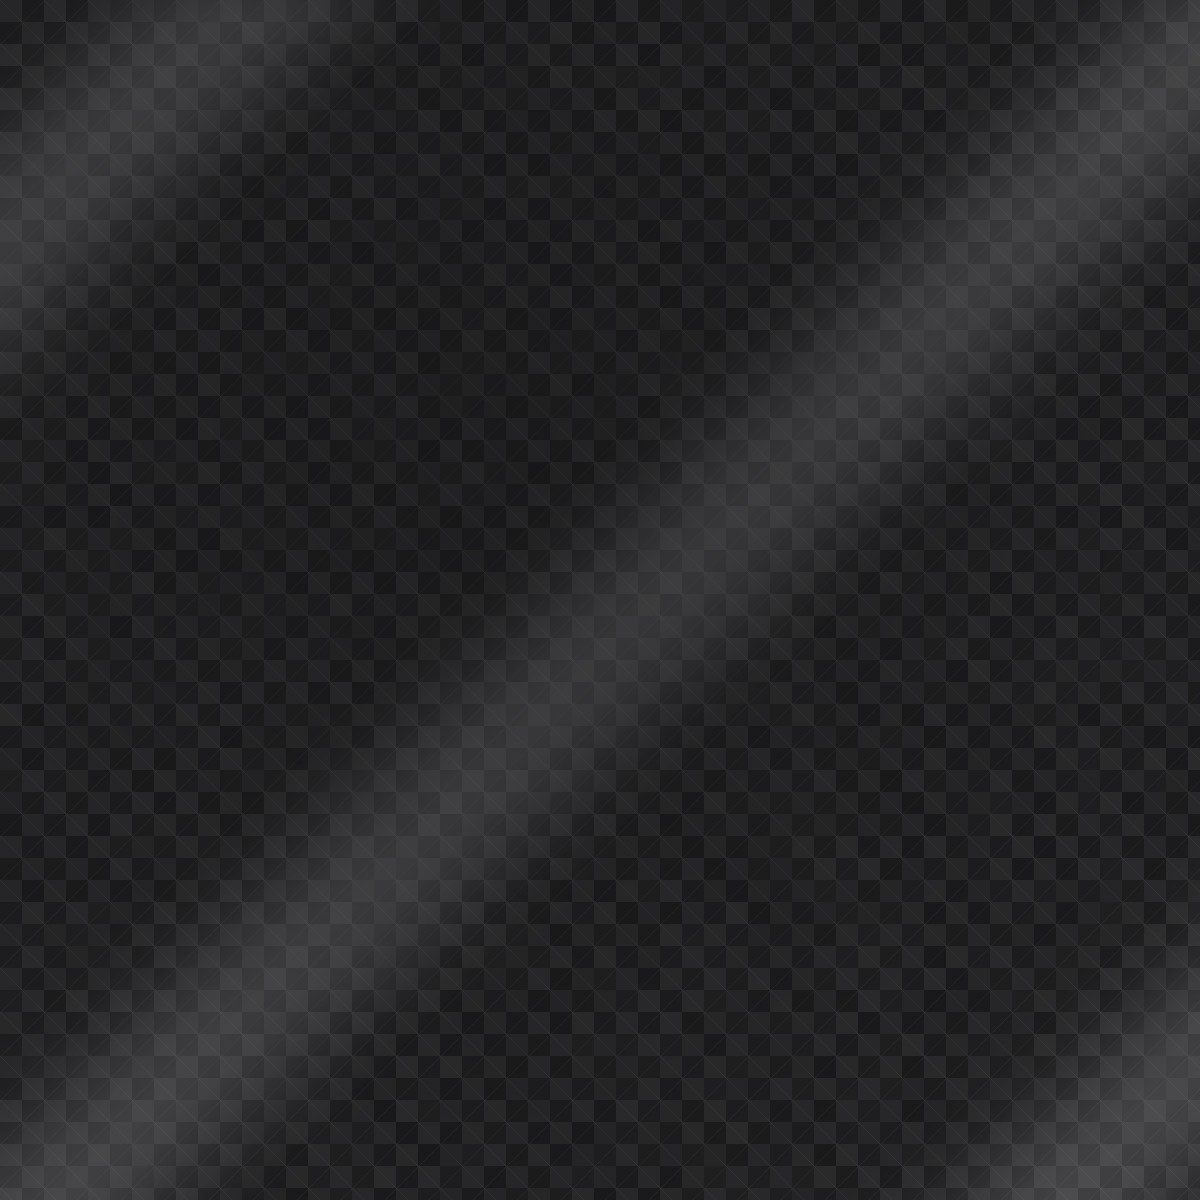
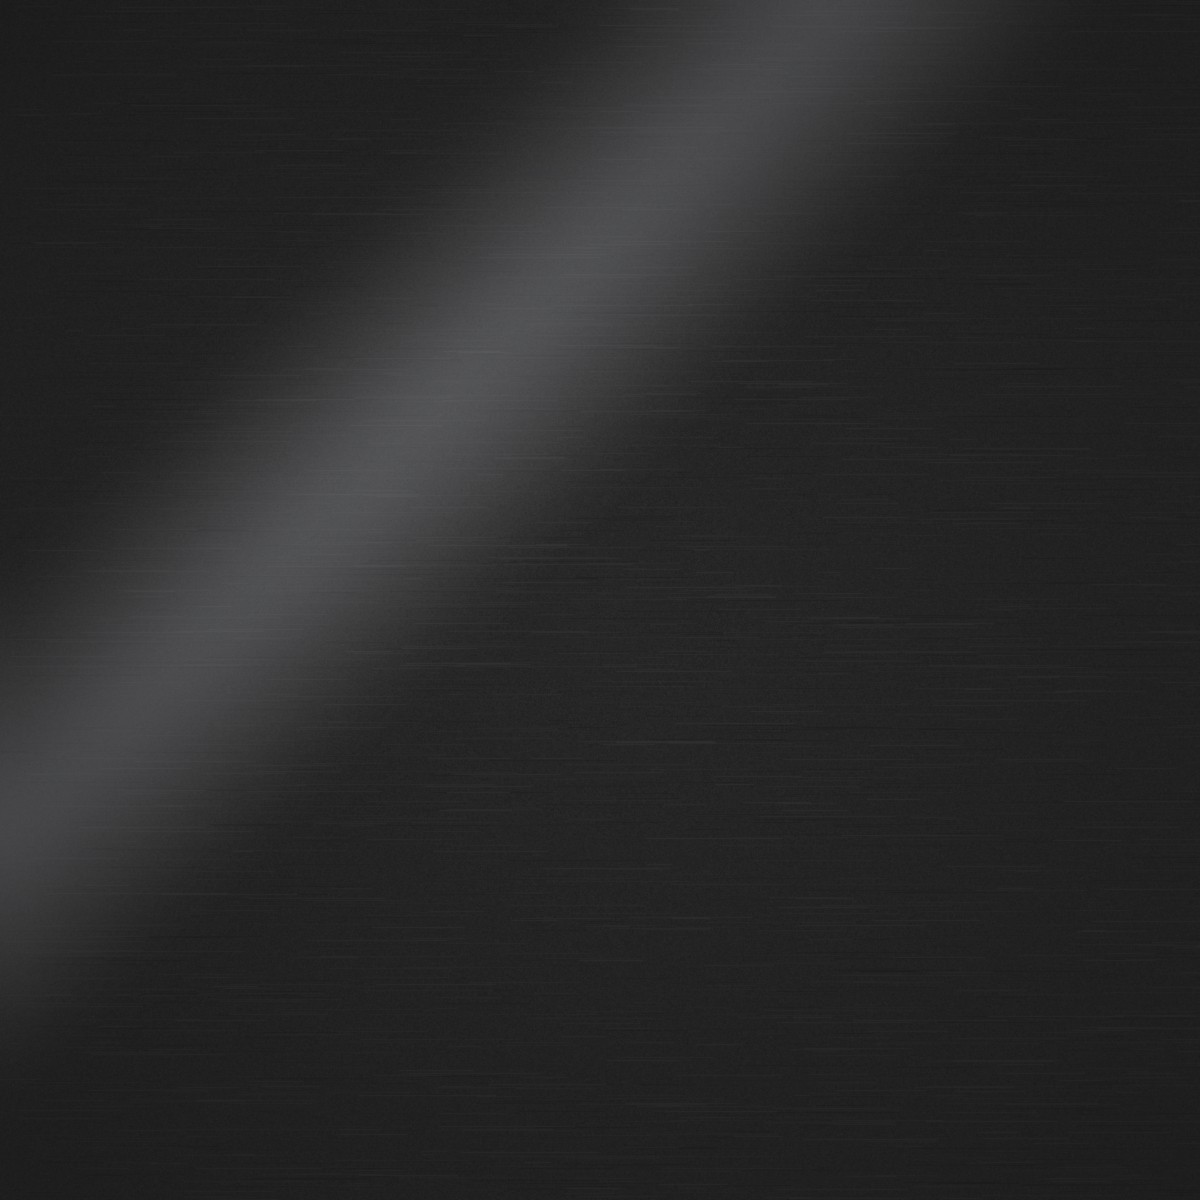
Fix carbon texture looking like a broken-transparency checkerboard
The tiled-square weave pattern I generated for the carbon-fiber background
read as a transparency checkerboard rather than a premium material.
Replaced with a smoother brushed-metal noise texture + soft diagonal
sheen (no tiling), and made both logos in the top band 4x bigger
(48px -> 192px) per request.

Claude-Session: https://claude.ai/code/session_01HzCiEXaNtUJSvseakKwkbt

diff --git a/emails/war-drop-announcement.html b/emails/war-drop-announcement.html
@@ -21,11 +21,11 @@
       <td style="background:#000000;padding:32px 40px;text-align:left;">
         <table role="presentation" style="border-collapse:collapse;">
           <tr>
-            <td style="padding-right:16px;vertical-align:middle;">
-              <img src="https://xtcclothing.com/images/icon-512.png" alt="XTC" width="48" style="width:48px;height:auto;display:block;">
+            <td style="padding-right:24px;vertical-align:middle;">
+              <img src="https://xtcclothing.com/images/icon-512.png" alt="XTC" width="192" style="width:192px;height:auto;display:block;">
             </td>
             <td style="vertical-align:middle;">
-              <img src="https://xtcclothing.com/images/email-skull-emblem.png" alt="" width="48" style="width:48px;height:auto;display:block;">
+              <img src="https://xtcclothing.com/images/email-skull-emblem.png" alt="" width="192" style="width:192px;height:auto;display:block;">
             </td>
           </tr>
         </table>
